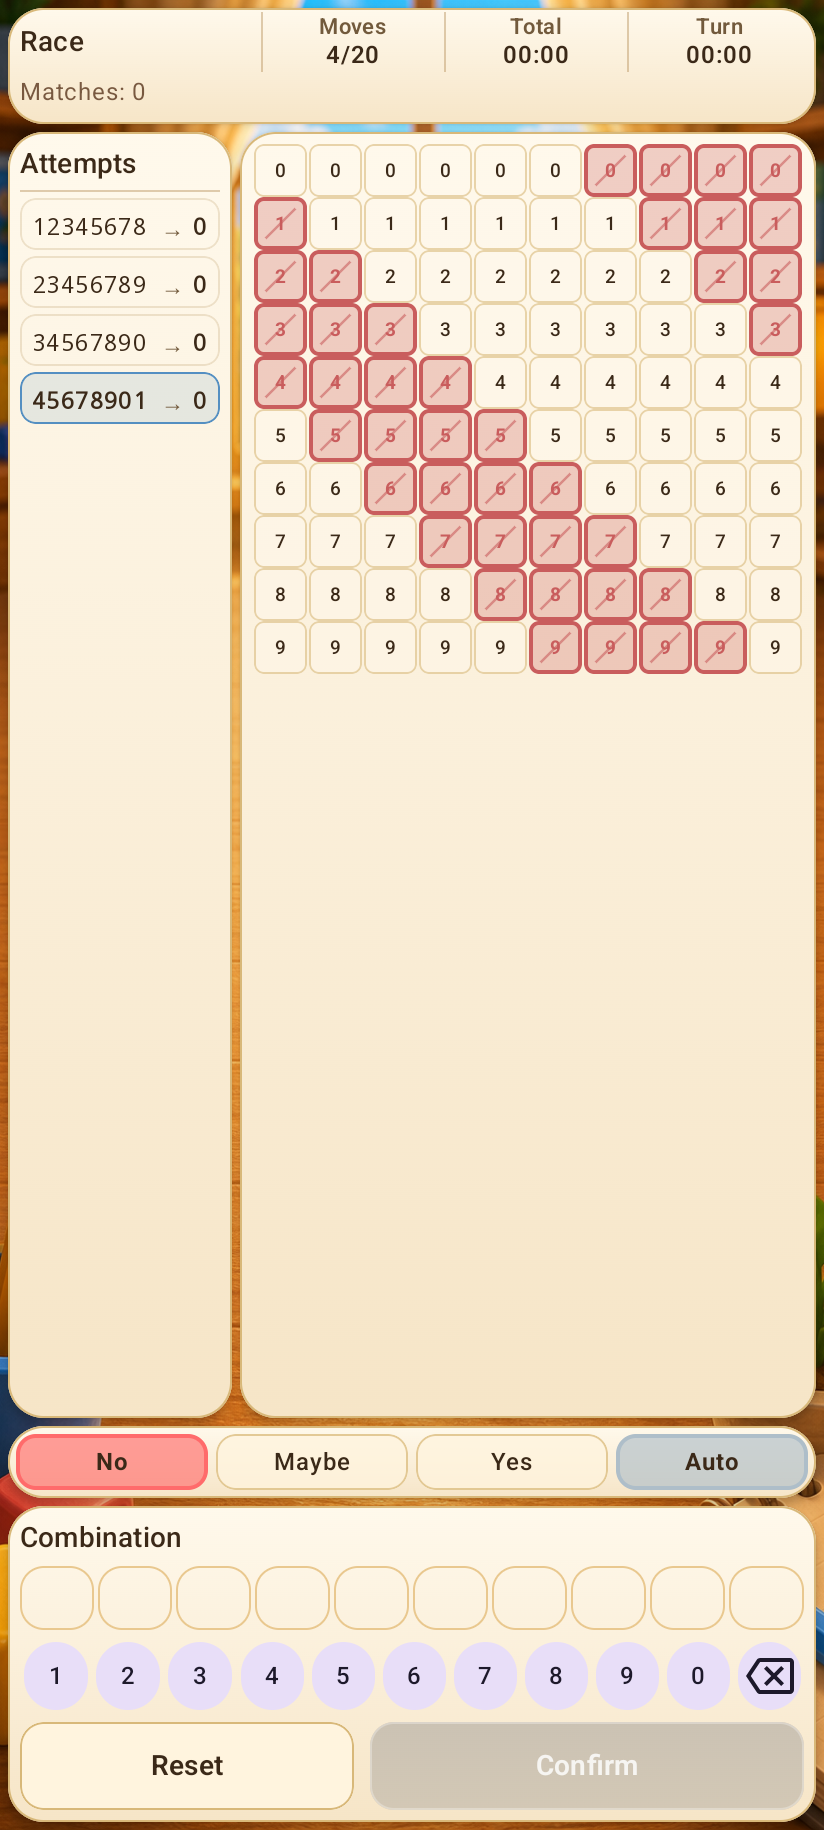
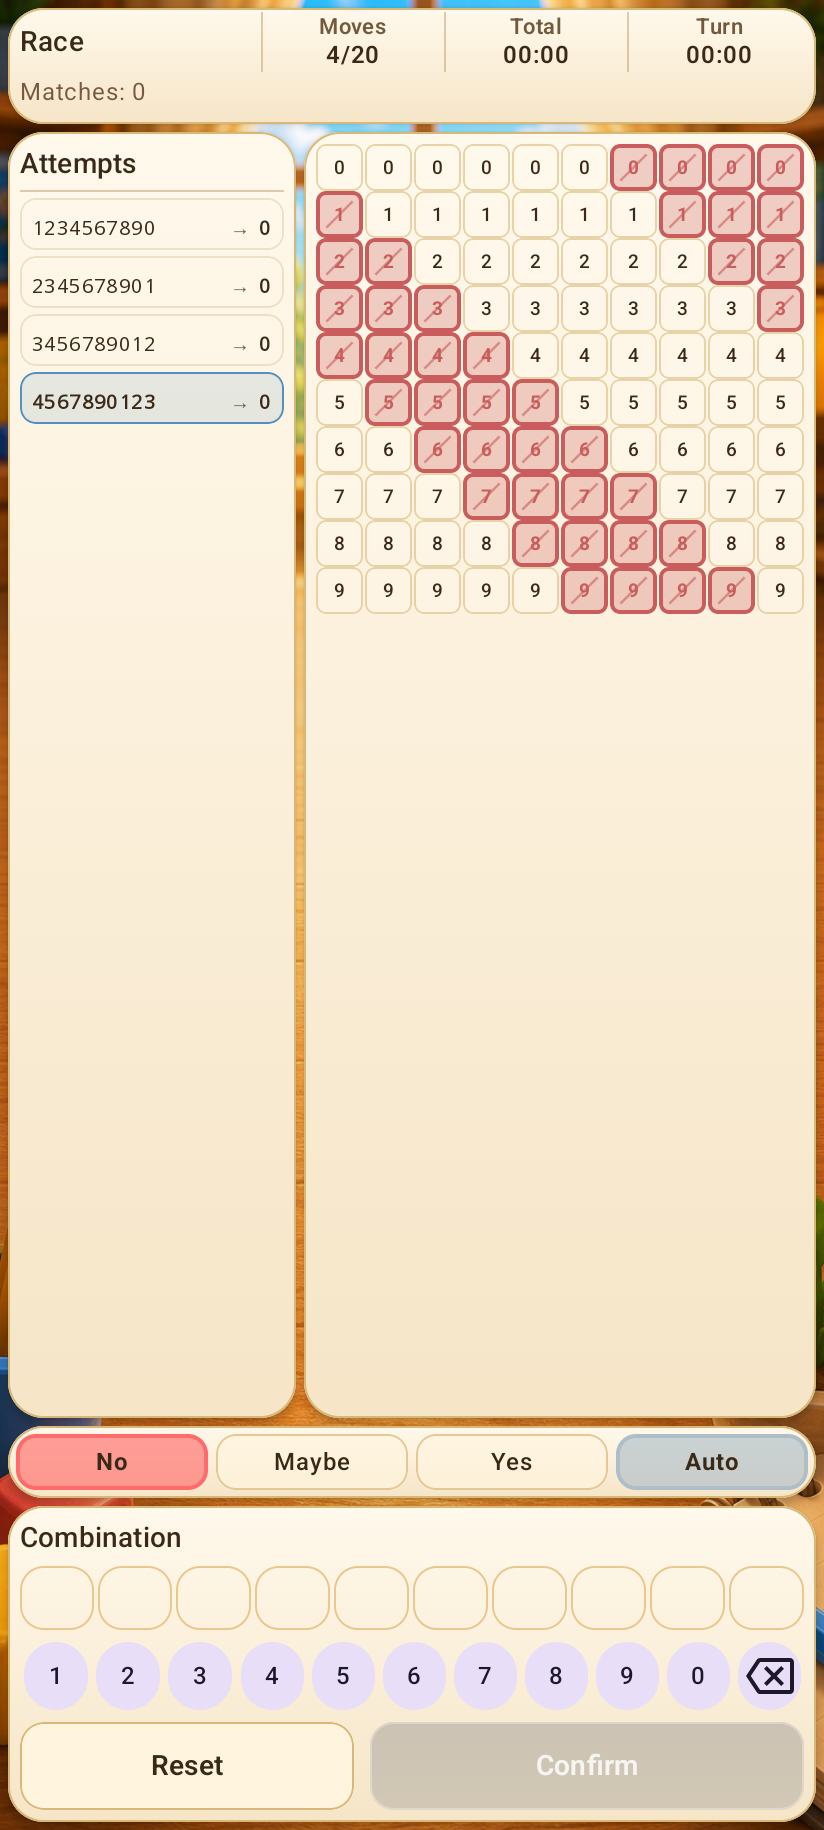
fix(ui): preserve long attempts and accessibility

Changed region(s): [[0.2427, 0.0623, 1.0, 0.7787], [0.0303, 0.0934, 0.182, 0.2492]]

diff --git a/InplaceX-android/app/src/main/java/com/mirkori/inplacex/ui/screens/game/presentation/GamePresentationComponents.kt b/InplaceX-android/app/src/main/java/com/mirkori/inplacex/ui/screens/game/presentation/GamePresentationComponents.kt
@@ -43,6 +43,7 @@ import androidx.compose.ui.Modifier
 import androidx.compose.ui.graphics.Color
 import androidx.compose.ui.platform.testTag
 import androidx.compose.ui.res.painterResource
+import androidx.compose.ui.semantics.Role
 import androidx.compose.ui.text.font.FontWeight
 import androidx.compose.ui.text.style.TextAlign
 import androidx.compose.ui.unit.dp
@@ -442,6 +443,7 @@ fun GameAnalysisPanel(
     onCellClick: (digit: Char, position: Int) -> Unit,
     modifier: Modifier = Modifier,
 ) {
+    val strings = LocalAppStrings.current
     BoxWithConstraints(modifier = modifier.padding(6.dp)) {
         val columns = uiState.parameters.codeLength
         val verticalGap = metrics.matrixGap
@@ -460,11 +462,17 @@ fun GameAnalysisPanel(
                     repeat(columns) { position ->
                         val symbol = digit.digitToChar()
                         val editable = enabled && analysisCellEditable(uiState, symbol, position)
+                        val cellState = analysisCellStateFor(uiState, symbol, position, enabled)
+                        val stateDescription = analysisCellStateText(cellState, strings::text)
                         WarmAnalysisCell(
                             digit = symbol,
-                            state = analysisCellStateFor(uiState, symbol, position, enabled),
+                            state = cellState,
+                            stateDescription = stateDescription,
                             enabled = editable,
-                            contentDescription = "$symbol ${position + 1}",
+                            contentDescription = strings.text("game.race.matrix.cell")
+                                .replace("{digit}", symbol.toString())
+                                .replace("{position}", (position + 1).toString())
+                                .replace("{state}", stateDescription),
                             digitSize = metrics.matrixDigitSize,
                             radius = metrics.matrixRadius,
                             onClick = { onCellClick(symbol, position) },
@@ -640,7 +648,7 @@ private fun CompactHelperButton(
                 },
                 shape = shape,
             )
-            .clickable(enabled = enabled, onClick = onClick)
+            .clickable(enabled = enabled, role = Role.Button, onClick = onClick)
             .padding(horizontal = 4.dp, vertical = 2.dp),
         horizontalArrangement = Arrangement.Center,
         verticalAlignment = Alignment.CenterVertically,
@@ -885,6 +893,19 @@ internal fun parseAttemptLine(line: String): Pair<String, Int> {
     val guess = line.substring(0, separator).trim()
     val score = line.substring(separator + 2).trim().toIntOrNull() ?: 0
     return guess to score
+}
+
+internal fun analysisCellStateText(
+    state: AnalysisCellVisualState,
+    text: (String) -> String,
+): String = when (state) {
+    AnalysisCellVisualState.EMPTY -> text("game.race.matrix.state.empty")
+    AnalysisCellVisualState.NO -> text("game.race.matrix.state.no")
+    AnalysisCellVisualState.MAYBE -> text("game.race.matrix.state.maybe")
+    AnalysisCellVisualState.EXACT -> text("game.race.matrix.state.yes")
+    AnalysisCellVisualState.LOCKED_NO -> text("game.race.matrix.state.locked_no")
+    AnalysisCellVisualState.LOCKED_EXACT -> text("game.race.matrix.state.locked_yes")
+    AnalysisCellVisualState.DISABLED -> text("game.race.matrix.state.disabled")
 }
 
 internal fun isInputEnabled(phase: MatchPhase): Boolean = phase == MatchPhase.ACTIVE

diff --git a/InplaceX-android/app/src/test/java/com/mirkori/inplacex/ui/screens/game/presentation/GamePresentationComponentsTest.kt b/InplaceX-android/app/src/test/java/com/mirkori/inplacex/ui/screens/game/presentation/GamePresentationComponentsTest.kt
@@ -10,6 +10,7 @@ import com.mirkori.inplacex.ui.screens.game.state.GameFieldManualMarkType
 import com.mirkori.inplacex.ui.screens.game.state.GameFieldMatchParameters
 import com.mirkori.inplacex.ui.screens.game.state.GameFieldStateHolder
 import com.mirkori.inplacex.ui.theme.finalGameFieldMetrics
+import com.mirkori.inplacex.ui.common.AnalysisCellVisualState
 import org.junit.Assert.assertEquals
 import org.junit.Assert.assertFalse
 import org.junit.Assert.assertNull
@@ -48,8 +49,24 @@ class GamePresentationComponentsTest {
         assertEquals(0.40f, finalGameFieldMetrics(4, compactHeight = false).attemptsWeight)
         assertEquals(0.37f, finalGameFieldMetrics(6, compactHeight = false).attemptsWeight)
         assertEquals(0.32f, finalGameFieldMetrics(8, compactHeight = false).attemptsWeight)
-        assertEquals(0.28f, finalGameFieldMetrics(10, compactHeight = false).attemptsWeight)
-        assertEquals(0.72f, finalGameFieldMetrics(10, compactHeight = false).matrixWeight)
+        assertEquals(0.36f, finalGameFieldMetrics(10, compactHeight = false).attemptsWeight)
+        assertEquals(0.64f, finalGameFieldMetrics(10, compactHeight = false).matrixWeight)
+    }
+
+    @Test
+    fun `analysis accessibility states use localized catalog keys`() {
+        assertEquals(
+            "game.race.matrix.state.locked_no",
+            analysisCellStateText(AnalysisCellVisualState.LOCKED_NO) { it },
+        )
+        assertEquals(
+            "game.race.matrix.state.locked_yes",
+            analysisCellStateText(AnalysisCellVisualState.LOCKED_EXACT) { it },
+        )
+        assertEquals(
+            "game.race.matrix.state.disabled",
+            analysisCellStateText(AnalysisCellVisualState.DISABLED) { it },
+        )
     }
 
     @Test

diff --git a/InplaceX-android/app/src/main/java/com/mirkori/inplacex/platform/localization/GameCatalog.kt b/InplaceX-android/app/src/main/java/com/mirkori/inplacex/platform/localization/GameCatalog.kt
@@ -88,6 +88,9 @@ internal object GameCatalog {
             localizationEntry("game.race.matrix.state.no", "нет"),
             localizationEntry("game.race.matrix.state.maybe", "возможно"),
             localizationEntry("game.race.matrix.state.yes", "точно"),
+            localizationEntry("game.race.matrix.state.locked_no", "точно исключено"),
+            localizationEntry("game.race.matrix.state.locked_yes", "точно подтверждено"),
+            localizationEntry("game.race.matrix.state.disabled", "недоступно"),
             localizationEntry("game.race.action.remove_last", "Удалить последнюю цифру"),
             localizationEntry("game.race.action.clear", "Очистить попытку"),
             localizationEntry("game.race.action.check", "Проверить"),
@@ -196,6 +199,9 @@ internal object GameCatalog {
             localizationEntry("game.race.matrix.state.no", "no"),
             localizationEntry("game.race.matrix.state.maybe", "maybe"),
             localizationEntry("game.race.matrix.state.yes", "yes"),
+            localizationEntry("game.race.matrix.state.locked_no", "confirmed absent"),
+            localizationEntry("game.race.matrix.state.locked_yes", "confirmed exact"),
+            localizationEntry("game.race.matrix.state.disabled", "unavailable"),
             localizationEntry("game.race.action.remove_last", "Remove last digit"),
             localizationEntry("game.race.action.clear", "Clear attempt"),
             localizationEntry("game.race.action.check", "Check"),

diff --git a/InplaceX-android/app/src/main/java/com/mirkori/inplacex/ui/common/FinalUiPrimitives.kt b/InplaceX-android/app/src/main/java/com/mirkori/inplacex/ui/common/FinalUiPrimitives.kt
@@ -135,6 +135,7 @@ enum class AnalysisCellVisualState {
 fun WarmAnalysisCell(
     digit: Char,
     state: AnalysisCellVisualState,
+    stateDescription: String,
     enabled: Boolean,
     contentDescription: String,
     digitSize: TextUnit,
@@ -152,7 +153,7 @@ fun WarmAnalysisCell(
             .border(visual.borderWidth, visual.border, shape)
             .semantics {
                 role = Role.Button
-                stateDescription = state.name
+                this.stateDescription = stateDescription
                 this.contentDescription = contentDescription
             }
             .clickable(enabled = enabled, role = Role.Button, onClick = onClick),

diff --git a/InplaceX-android/app/src/main/java/com/mirkori/inplacex/ui/theme/FinalUiTokens.kt b/InplaceX-android/app/src/main/java/com/mirkori/inplacex/ui/theme/FinalUiTokens.kt
@@ -143,12 +143,12 @@ fun finalGameFieldMetrics(
         )
 
         else -> GameFieldLayoutMetrics(
-            attemptsWeight = 0.28f,
-            matrixWeight = 0.72f,
+            attemptsWeight = 0.36f,
+            matrixWeight = 0.64f,
             matrixGap = 1.dp,
             matrixRadius = 5.dp,
             matrixDigitSize = 9.5.sp,
-            attemptTextSize = 11.5.sp,
+            attemptTextSize = 10.sp,
             attemptRowHeight = 26.dp,
             inputSlotHeight = 32.dp,
             inputSlotGap = 2.dp,
